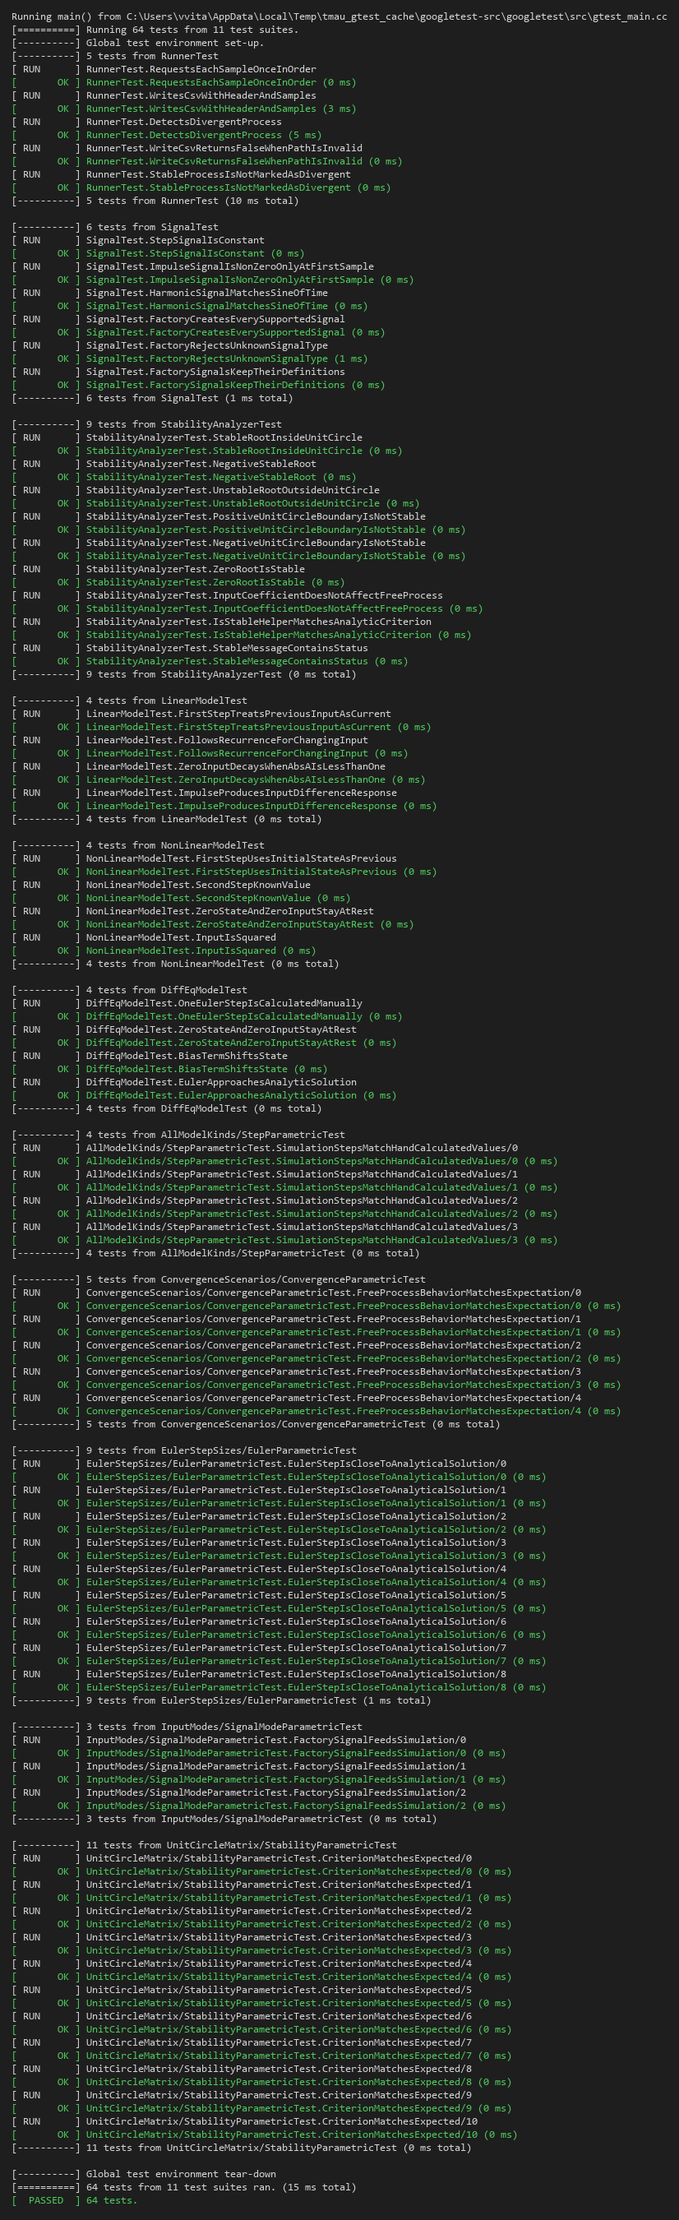
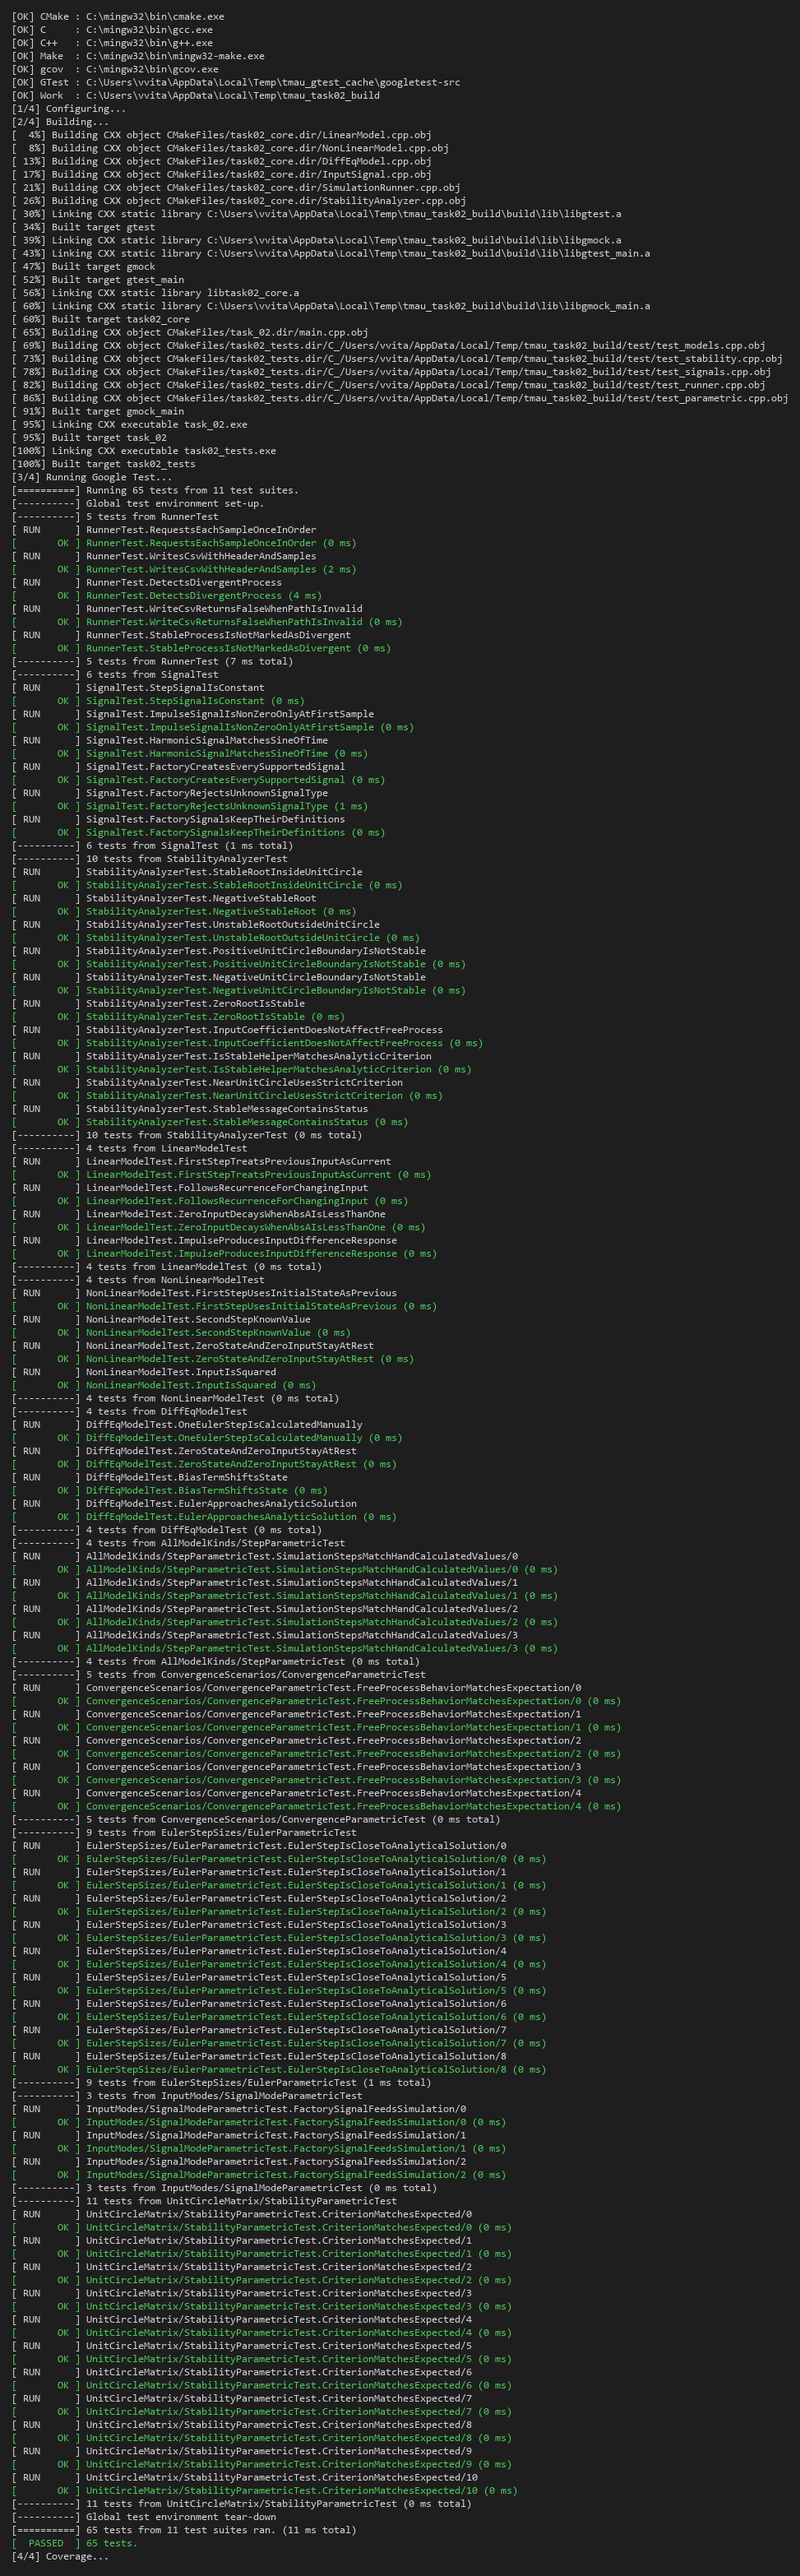
Use strict stability criterion and harden test runner

Changed region(s): [[0.0, 0.0, 0.9685, 0.9956], [0.7264, 0.84, 0.7567, 0.8711]]

diff --git a/trunk/as06804/task_02/src/StabilityAnalyzer.cpp b/trunk/as06804/task_02/src/StabilityAnalyzer.cpp
@@ -5,23 +5,19 @@
 
 namespace stability {
 
-namespace {
-constexpr double kEps = 1e-9;
-}
-
 AnalysisResult analyzeLinearModel14(double a, double) {
     AnalysisResult result;
 
     result.root = a;
     result.radius = std::fabs(a);
-    result.stable = result.radius < 1.0 - kEps; // |z| = 1 is not asymptotic stability
+    result.stable = result.radius < 1.0; // |z| = 1 is not asymptotic stability
 
     std::ostringstream out;
     out << "Model 1.4: z - (" << a << ") = 0, root z = " << a
         << ", |z|max = " << result.radius;
     if (result.stable) {
         out << " -> STABLE";
-    } else if (result.radius <= 1.0 + kEps) {
+    } else if (result.radius <= 1.0) {
         out << " -> MARGINAL (|z| = 1): NOT asymptotically stable";
     } else {
         out << " -> UNSTABLE (divergent)";
@@ -31,8 +27,8 @@ AnalysisResult analyzeLinearModel14(double a, double) {
     return result;
 }
 
-bool isStable(double a, double eps) {
-    return std::fabs(a) < 1.0 - eps;
+bool isStable(double a) {
+    return std::fabs(a) < 1.0;
 }
 
 } // namespace stability

diff --git a/trunk/as06804/task_02/test/test_stability.cpp b/trunk/as06804/task_02/test/test_stability.cpp
@@ -61,6 +61,18 @@ TEST(StabilityAnalyzerTest, IsStableHelperMatchesAnalyticCriterion) {
     EXPECT_FALSE(isStable(1.000001));
 }
 
+TEST(StabilityAnalyzerTest, NearUnitCircleUsesStrictCriterion) {
+    const auto inside = analyzeLinearModel14(0.9999999995);
+    EXPECT_TRUE(inside.stable);
+    EXPECT_TRUE(isStable(0.9999999995));
+    EXPECT_NE(inside.message.find("STABLE"), std::string::npos);
+
+    const auto outside = analyzeLinearModel14(1.0000000005);
+    EXPECT_FALSE(outside.stable);
+    EXPECT_FALSE(isStable(1.0000000005));
+    EXPECT_NE(outside.message.find("UNSTABLE"), std::string::npos);
+}
+
 TEST(StabilityAnalyzerTest, StableMessageContainsStatus) {
     const auto result = analyzeLinearModel14(0.25);
     EXPECT_FALSE(result.message.empty());

diff --git a/trunk/as06804/task_02/src/StabilityAnalyzer.hpp b/trunk/as06804/task_02/src/StabilityAnalyzer.hpp
@@ -14,12 +14,12 @@ struct AnalysisResult {
 
 // Analytical stability check for variant 4, model 1.4.
 // Free process: y[k+1] = a*y[k]  =>  z - a = 0  =>  z = a.
-// The system is asymptotically stable iff |a| < 1.
+// The system is asymptotically stable iff |a| < 1; |a| = 1 is not stable.
 // `b` is accepted for API completeness: it cancels out in the free process.
 AnalysisResult analyzeLinearModel14(double a, double b = 0.0);
 
-// Convenience predicate used by main.cpp and unit tests.
-bool isStable(double a, double eps = 1e-9);
+// Convenience predicate used by unit tests: strict |a| < 1 criterion.
+bool isStable(double a);
 
 } // namespace stability
 

diff --git a/trunk/as06804/task_02/doc/readme.md b/trunk/as06804/task_02/doc/readme.md
@@ -104,7 +104,7 @@ task_02/
 run_tests.bat
 ```
 
-Скрипт: подготавливает Google Test 1.14.0, конфигурирует CMake из `src`, компилирует `task_02` и `task02_tests`, запускает 64 теста и выводит отчёт о покрытии через `gcovr`.
+Скрипт: подготавливает Google Test 1.14.0, конфигурирует CMake из `src`, компилирует `task_02` и `task02_tests`, запускает 65 тестов и выводит отчёт о покрытии через `gcovr`.
 
 > **Особенность окружения:** MinGW `make` не корректно обрабатывает кириллические пути (`Документы\Проект по умолчанию`). Поэтому сборка выполняется в ASCII-зеркале `%TEMP%\tmau_task02_build`. При другом компиляторе зеркало можно отключить, запустив CMake напрямую из `task_02\src`.
 
@@ -124,22 +124,22 @@ build\task_02.exe      # в ASCII-зеркале; выбирает модель,
 | `NonLinearModelTest` | первое/второе состояние, покой при нулях, квадрат входа | 4 |
 | `DiffEqModelTest` | один шаг Эйлера, покой, смещение $b$, сравнение с аналитикой | 4 |
 | `SignalTest` | Step / Impulse / Harmonic, фабрика и ошибка на неизвестный тип | 6 |
-| `StabilityAnalyzerTest` | корень $z=a$, внутри / вне / на границе единичной окружности, сообщение | 9 |
+| `StabilityAnalyzerTest` | корень $z=a$, внутри / вне / на границе единичной окружности, сообщение | 10 |
 | `UnitCircleMatrix/StabilityParametricTest` (`TEST_P`) | 11 наборов $a$ включая $a=\pm1$ | 11 |
 | `RunnerTest` (`Google Mock`) | порядок и число вызовов сигнала, CSV, детекция расходимости | 5 |
 | `AllModelKinds/StepParametricTest` (`TEST_P`) | пошаговые значения всех трёх моделей | 4 |
 | `ConvergenceScenarios/ConvergenceParametricTest` (`TEST_P`) | сходимость при $|a|<1$, граница и рост при $|a|>1$ | 5 |
 | `EulerStepSizes/EulerParametricTest` (`TEST_P`) | Эйлер против аналитического решения при $\Delta t=0.1/0.05/0.01$ | 9 |
 | `InputModes/SignalModeParametricTest` (`TEST_P`) | подстановка трёх режимов через фабрику сигналов | 3 |
-| **Итого** | | **64** |
+| **Итого** | | **65** |
 
 Требования задания выполнены: параметризованные тесты (`TEST_P`) используются для расчёта шагов и сходимости, а mock-объект `MockSignal` (Google Mock) проверяет опрос входного воздействия с помощью `InSequence` и `EXPECT_CALL`.
 
 ## 7. Тестовое покрытие и результаты
 
 * **Способ запуска:** локальный скрипт `run_tests.bat`.
-* **Всего тестов:** 64.
-* **Успешно пройдено:** 64 / 64.
+* **Всего тестов:** 65.
+* **Успешно пройдено:** 65 / 65.
 * **Инструмент покрытия:** `gcovr` (GCC `--coverage`).
 
 ### Покрытие тестируемой бизнес-логики (`main.cpp` исключён)
@@ -163,6 +163,8 @@ build\task_02.exe      # в ASCII-зеркале; выбирает модель,
 | `main.cpp` (консольный UI, тестами не вызывается) | 79 | 0 | 0 % |
 | **Итого по проекту** | **172** | **92** | **53 %** |
 
+> Проценты округлены по `gcovr` в меньшую сторону: `92/93 = 98,9 % → 98 %`, `92/172 = 53,5 % → 53 %`.
+
 Непокрытая строка `SimulationRunner.cpp:46` — закрывающая скобка функции, которую `gcov` считает исполняемой; реальных ветвлений бизнес-логики без теста нет.
 
 ![](test_results.png)
@@ -171,9 +173,9 @@ build\task_02.exe      # в ASCII-зеркале; выбирает модель,
 
 - Перенесены три модели варианта 4 без изменения математики; сигналы выделены в отдельный модуль с интерфейсом `Signal`.
 - Реализован аналитический анализатор устойчивости линейной модели 1.4; предупреждение выводится до симуляции.
-- Написано 64 модульных теста: обычные `TEST`, параметризованные `TEST_P` и mock-тесты на Google Mock.
+- Написано 65 модульных тестов: обычные `TEST`, параметризованные `TEST_P` и mock-тесты на Google Mock.
 - Покрытие ядра составляет 98 %, полное покрытие с учитыванием консольного `main.cpp` — 53 %.
 
 ## Выводы
 
-В ходе лабораторной работы программа из ЛР1 была расширена модулем анализа устойчивости и автоматизированным модульным тестированием. Для модели 1.4 аналитически найден корень характеристического уравнения $z=a$ и сформулирован критерий $|a|<1$; проверка этого условия встроена в программу и покрыта тестами, включая границу $|z|=1$. Использование `TEST_P` позволило без дублирования кода проверить все три модели и разные шаги интегрирования, а Google Mock — контролировать порядок опроса входных сигналов. Локальный `run_tests.bat` обеспечивает воспроизводимую сборку, прогон 64 тестов и вывод отчёта о покрытии.
+В ходе лабораторной работы программа из ЛР1 была расширена модулем анализа устойчивости и автоматизированным модульным тестированием. Для модели 1.4 аналитически найден корень характеристического уравнения $z=a$ и сформулирован критерий $|a|<1$; проверка этого условия встроена в программу и покрыта тестами, включая границу $|z|=1$. Использование `TEST_P` позволило без дублирования кода проверить все три модели и разные шаги интегрирования, а Google Mock — контролировать порядок опроса входных сигналов. Локальный `run_tests.bat` обеспечивает воспроизводимую сборку, прогон 65 тестов и вывод отчёта о покрытии.
